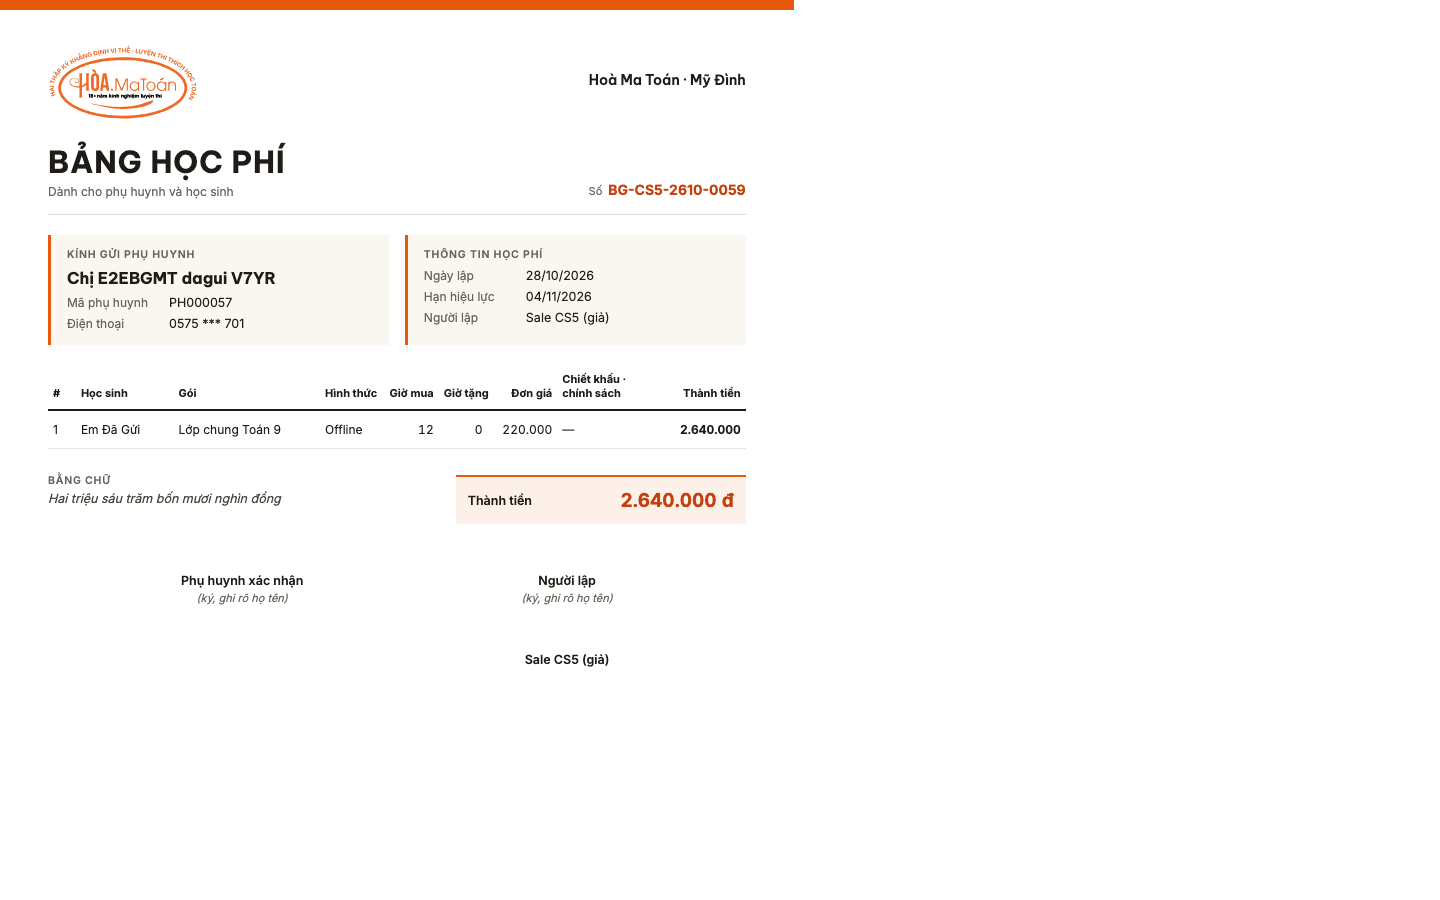
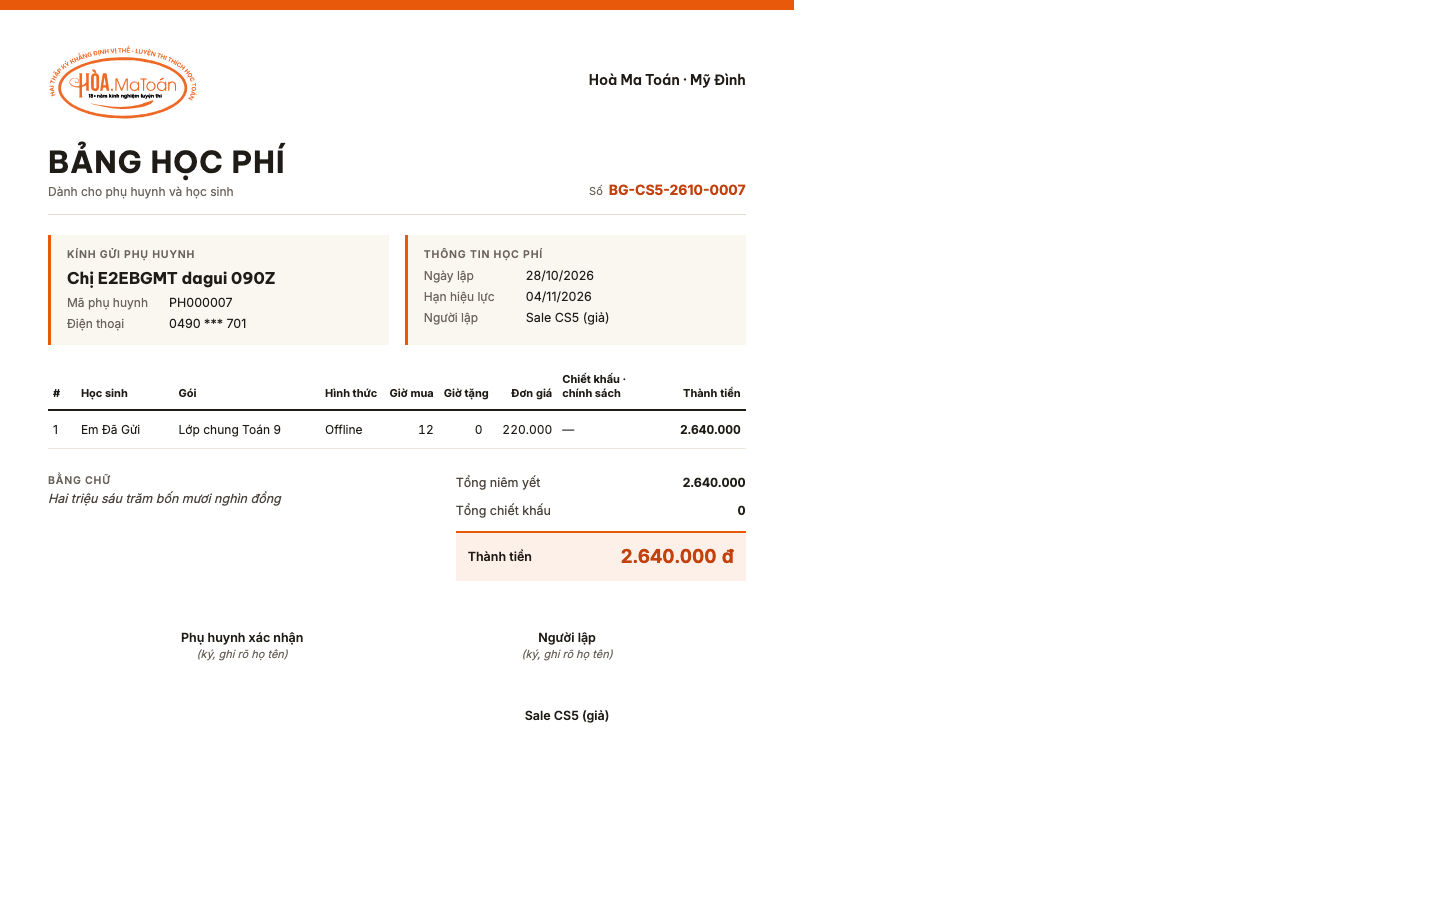
BH-03: bản in thêm hai dòng Tổng niêm yết và Tổng chiết khấu (#143)
OK của caotruong276: https://github.com/hmt-vanhanh/hmt-platform/pull/143#issuecomment-6463133031

diff --git a/e2e/bao-gia-seed.ts b/e2e/bao-gia-seed.ts
@@ -133,13 +133,18 @@ export async function seed(setup: Setup): Promise<Seeded> {
     const packageId = (
       await db.query<{ id: string }>(`select id from app.sales_package where code = 'LC-TOAN-K09'`)
     ).rows[0]?.id;
-    const line = (ps: string, hours: number) => ({
+    const policyId = (
+      await db.query<{ id: string }>(
+        `select id from app.discount_policy where code = 'GIAM_6_THANG'`,
+      )
+    ).rows[0]?.id;
+    const line = (ps: string, hours: number, withDiscount = false) => ({
       kind: 'ENROL',
       prospect_student_id: ps,
       package_id: packageId,
       delivery_mode_code: 'OFF',
       quantity: hours,
-      discounts: [],
+      discounts: withDiscount ? [{ policy_id: policyId, value: null }] : [],
     });
     const quote = async (oppId: string, lines: object[]): Promise<{ id: string; code: string }> => {
       const r = await db.query<{ id: string; code: string }>(
@@ -163,7 +168,7 @@ export async function seed(setup: Setup): Promise<Seeded> {
     const sentQ = await quote(sent.id, [line(sent.ps, 12)]);
     await db.query(`select app.send_quotation($1::uuid)`, [sentQ.id]);
     const overdue = await opp(parent.overdue, 2, 'Em Quá Hạn');
-    const overdueQ = await quote(overdue.id, [line(overdue.ps, 6)]);
+    const overdueQ = await quote(overdue.id, [line(overdue.ps, 6, true)]);
     await db.query(`select app.send_quotation($1::uuid)`, [overdueQ.id]);
     const rejected = await opp(parent.rejected, 3, 'Em Từ Chối');
     const rejectedQ = await quote(rejected.id, [line(rejected.ps, 8)]);

diff --git a/src/pages/bao-gia/QuotationPrintPage.tsx b/src/pages/bao-gia/QuotationPrintPage.tsx
@@ -163,10 +163,22 @@ function QuotationPrint({ record }: { record: QuotationRecord }) {
             </>
           }
           totals={
-            <div className="k13-tr k13-pay">
-              <span>Thành tiền</span>
-              <b>{formatMoney(record.total_amount)}</b>
-            </div>
+            <>
+              <div className="k13-tr">
+                <span>Tổng niêm yết</span>
+                <b>{formatNumber(record.gross_total)}</b>
+              </div>
+              <div className="k13-tr">
+                <span>Tổng chiết khấu</span>
+                <b>
+                  {record.discount_total > 0 ? `− ${formatNumber(record.discount_total)}` : '0'}
+                </b>
+              </div>
+              <div className="k13-tr k13-pay">
+                <span>Thành tiền</span>
+                <b>{formatMoney(record.total_amount)}</b>
+              </div>
+            </>
           }
           signatures={
             <>

diff --git a/src/pages/bao-gia/quoteTypes.ts b/src/pages/bao-gia/quoteTypes.ts
@@ -118,6 +118,9 @@ export type QuotationRecord = {
   cancel_note: string | null;
   cancelled_at: string | null;
   total_amount: number;
+  /** Tổng niêm yết và tổng chiết khấu do máy chủ cộng từ các dòng đã đóng băng (migration 062); quà tặng không tính. */
+  gross_total: number;
+  discount_total: number;
   created_at: string;
   created_by_name: string | null;
   has_incomplete_students: boolean;

diff --git a/docs/TIEN-DO.md b/docs/TIEN-DO.md
@@ -81,8 +81,8 @@ Gói thiết kế hiện hành: `design/hmt-p0-p2/` (PR 0), **bản v2 từ 14/1
 | P5a-UI-O1 (BH-06) | Danh sách đơn hàng (khuôn K03; `list_orders`, `export_orders`): Nháp, Đã trình, Đã duyệt, Huỷ (Từ chối là Nháp, R-TIEN-06); cột Đã thu, Còn phải thu để "—" và bỏ bộ lọc đã thu đủ, nút Thu tiền cho tới khi có phiếu thu (Đ262); không có nút Tạo (R-TIEN-02). | Đã gộp (#135) |
 | P5a-DB-O1a | Chỉ đọc (migration `060`, Đ256): hàm kiểm quyền chung của bốn hàm đọc phụ cho phép Báo giá HOẶC Đơn hàng Tạo/Sửa; `list_orders` trả thêm `student_names`. Bài kiểm 052. Ma trận quyền không đổi. | Đã gộp (#136) |
 | P5a-DB-O1b | Đụng đường ghi đơn (migration `061`): `find_student_match`, `order_student_duplicates`, `preview_order_students`, tạo đơn kèm điều khoản trong một giao dịch (Đ260); có kiểm độc lập (Đ209, Đ216). Bài kiểm 053. | Đã gộp (#137) |
-| P5a-DB-O1c | Chỉ đọc (migration `062`, Đ270, Đ271): `get_quotation` và `get_order` trả thêm `gross_total`, `discount_total` (DB cộng từ dòng đã đóng băng, quà tặng không tính); `get_order` của đơn Nháp trả `expected_route` (QUAN_LY, TU_DUYET, THIEU), người duyệt dự kiến và `expected_approver_can_approve`, tính đúng như `submit_order` chốt người duyệt (R-HT-06), người lập chưa có quản lý thì THIEU, không lỗi; ghi chú và lịch sử cho đơn (`SALES_ORDER`) giống hệt báo giá. pgTAP `054` (77 bài). | Đã viết, chờ OK |
-| P5a-UI-11 | BH-03 In báo giá (K13, A4 dọc), route `/crm/bao-gia/:id/in`: khuôn dùng chung `src/print/PrintSheet` (dải cam, logo chung HMT, tên và địa chỉ cơ sở từ DB, không điện thoại cơ sở, không khẩu hiệu), bảng dòng theo K06c, quà tặng giá 0, số tiền bằng chữ (`amountInWords`, chỉ đọc lại tổng máy chủ trả, R-TIEN-13), mã cũ cạnh số. In được ở mọi tình trạng (Đ263); nhãn BẢN NHÁP, ĐÃ TỪ CHỐI, ĐÃ HUỶ, Nháp để trống hạn, "Đã quá hạn N ngày" khi quá hạn (Đ273). "In" và "Tải PDF" cùng mở hộp in của trình duyệt (`window.print`), ghi chú "Chọn “Lưu thành PDF” để tải"; nút "In" ẩn trên điện thoại. Mục "In" ở menu Hành động BH-02 đã bật (Đ249). Không dựng cột ghi chú bên phải và dãy nút đổi trạng thái của khung (chỉ để xem mẫu). | Đã gộp |
+| P5a-DB-O1c | Chỉ đọc (migration `062`, Đ270, Đ271): `get_quotation` và `get_order` trả thêm `gross_total`, `discount_total` (DB cộng từ dòng đã đóng băng, quà tặng không tính); `get_order` của đơn Nháp trả `expected_route` (QUAN_LY, TU_DUYET, THIEU), người duyệt dự kiến và `expected_approver_can_approve`, tính đúng như `submit_order` chốt người duyệt (R-HT-06), người lập chưa có quản lý thì THIEU, không lỗi; ghi chú và lịch sử cho đơn (`SALES_ORDER`) giống hệt báo giá. pgTAP `054` (77 bài). | Đã gộp |
+| P5a-UI-11 | BH-03 In báo giá (K13, A4 dọc), route `/crm/bao-gia/:id/in`: khuôn dùng chung `src/print/PrintSheet` (dải cam, logo chung HMT, tên và địa chỉ cơ sở từ DB, không điện thoại cơ sở, không khẩu hiệu), bảng dòng theo K06c, quà tặng giá 0, hai dòng Tổng niêm yết và Tổng chiết khấu (`get_quotation` migration 062, trình duyệt không cộng), số tiền bằng chữ (`amountInWords`, chỉ đọc lại tổng máy chủ trả, R-TIEN-13), mã cũ cạnh số. In được ở mọi tình trạng (Đ263); nhãn BẢN NHÁP, ĐÃ TỪ CHỐI, ĐÃ HUỶ, Nháp để trống hạn, "Đã quá hạn N ngày" khi quá hạn (Đ273). "In" và "Tải PDF" cùng mở hộp in của trình duyệt (`window.print`), ghi chú "Chọn “Lưu thành PDF” để tải"; nút "In" ẩn trên điện thoại. Mục "In" ở menu Hành động BH-02 đã bật (Đ249). Không dựng cột ghi chú bên phải và dãy nút đổi trạng thái của khung (chỉ để xem mẫu). | Đã gộp |
 | BH-05 (bản ghi đơn) | Đ257 hết hiệu lực theo Đ272: dùng khung BH05_* hiện có trên canvas `8ab9`, làm theo luật khi canvas vênh (Đ270: canvas `8ab9` là bản duy nhất anh duyệt; bản phân tích đã được Chat trả lời 28/10). Bỏ Hình thức thanh toán, Cơ sở thu tiền khỏi khung (Đ258). Chuyển thành đơn: form trắng, dòng chưa vào đơn, bỏ bớt bằng ✕ (Đ259). R-TIEN-39 đã vào luật (BH-11 hết chờ luật, còn chờ UI-O4); bỏ gợi ý "dùng báo giá còn hiệu lực" (Đ275). | Chờ Chat duyệt phân tích |
 | Ma trận quyền phiên bản 6 (Đ204, migration `050`): Sale, CSKH có Huỷ đơn hàng (cơ sở mình); đúng hai ô đổi; bài kiểm 042 | Đang chờ OK (PR ma trận v6) |
 | Danh sách em-1 (DB) | Bảng `prospect_student` (một dòng một em của lead hoặc cơ hội; đọc thẳng từ hồ sơ học sinh khi đã gắn, Đ86), tham số `prospect_max_students` (Đ88), chuyển dữ liệu chữ cũ sang dòng 1 và bỏ cột cũ, chuyển 24 hàm sang bảng mới giữ đúng hành vi cũ (migration `043`); bài kiểm 035 (69 bài), EXPLAIN trên `seed-lon`; bước kiểm trên hmt-staging ở deploy-staging. Luật mới để PR Danh sách em-2 (DB) | Đã gộp (PR Danh sách em-1) |

diff --git a/docs/nhat-ky/code.md b/docs/nhat-ky/code.md
@@ -3,7 +3,7 @@
 (Claude Code viết đè file này cuối mỗi phiên; tối đa một trang. Bản dài trước 28/10 nằm trong lịch sử git của file này: `git log -- docs/nhat-ky/code.md`.)
 
 ## Đang làm
-- DB-O1c (#141, migration 062): chờ OK; BH-03 đã gộp. Sau đó PR bản in thêm hai dòng tổng, UI-O2, UI-O3, UI-O4.
+- DB-O1c và BH-03 đã gộp. Đang chờ OK: PR bản in thêm hai dòng tổng. Sau đó UI-O2, UI-O3, UI-O4.
 - Chưa dựng BH-05 (chờ DB-O1c rồi UI-O2, UI-O3, UI-O4), BH-11 (luật R-TIEN-39 đã vào, dựng ở UI-O4).
 
 ## Đã gộp gần đây (Bán hàng, P5a)
